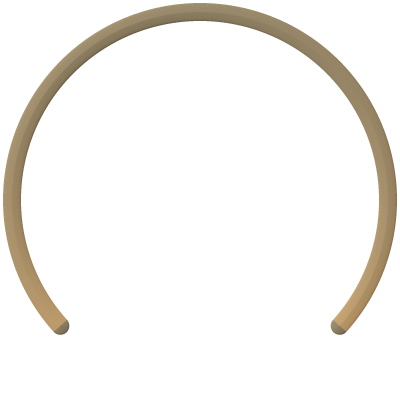
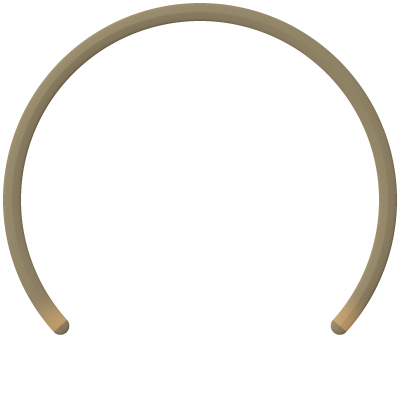
Incubator: the closed ring differs from the fill only at the ends (T-20261016-124)

Changed region(s): [[0.87, 0.54, 0.99, 0.78], [0.03, 0.57, 0.12, 0.78]]

diff --git a/art/station-masters/pods/incubator-b/make-ring.py b/art/station-masters/pods/incubator-b/make-ring.py
@@ -6,7 +6,7 @@ at (312, 88). By hand in code, no paid call. The ring of time: how close the mee
 - The form the build steps: the full arc is one picture; the build shows the part from 228 degrees clockwise to 228 + 264 f (whole degrees),
   clipping the picture to that wedge. The leading end is the wedge's straight edge, the trailing end the picture's rounded cap.
 - incubator-ring-closed (ready): the full fill with both end caps warmed where they meet the candling light under the nest (the cradle's lens
-  colour, falling off over 40 degrees from each end).
+  colour, falling to zero 12 degrees from each end; T-20261016-124: equal to the fill everywhere else).
 usage: python3 -I make-ring.py OUT_DIR"""
 import sys, os, numpy as np
 from PIL import Image
@@ -39,5 +39,9 @@ def save(name, c):
     Y = lin(img[..., :3]) @ [.2126, .7152, .0722]; op = img[..., 3] > 128
     print(name, "px", int(op.sum()), "rel. lum p95 %.3f" % np.percentile(Y[op], 95))
 save("incubator-ring-fill", col)
-warm = np.exp(-np.minimum((132 - ang) % 360, (ang - 228) % 360) / 40.0)       # by the degrees from the nearer end
+# T-20261016-124: the warmth is held to the ends, exactly zero past 12 degrees from the nearer end (it was an exponential that never
+# reached zero, so the closed picture differed from the fill all round the ring). Everywhere else the closed ring is the fill, pixel for pixel,
+# so the face's ready redraw is only the gap where the ends meet the light.
+de = np.minimum((132 - ang) % 360, (ang - 228) % 360)                         # the degrees from the nearer end (0 in the gap and the caps)
+wk = np.clip(1 - de / 12.0, 0, 1); warm = wk * wk * (3 - 2 * wk)
 save("incubator-ring-closed", col + lin([214, 150, 62])[None, None] * 0.35 * warm[..., None])

diff --git a/art/station-masters/pods/incubator-b/README.md b/art/station-masters/pods/incubator-b/README.md
@@ -203,3 +203,14 @@ The owner: "sharpen the founder shape". The shadow in the T-62/T-68 proofs was t
 **Proofs** (`proof/`, labelled inside):
 - `incubator-b-S01-glowing-1x.png`, the growing frame;
 - `shadow-steps-S01-1x.png` and `shadow-steps-S03-1x.png`: nothing cleared, 2 chapters, 4 chapters, ready, at one light (glowing; ready at ready), so only the knowing changes.
+
+## T-20261016-124: the closed ring re-cut to differ only at the ends
+The face redraws only where `incubator-ring-closed` differs from `incubator-ring-fill` (`specs/face-arc-and-shadow.md` §1). The old closed ring's warmth fell off exponentially and never reached zero, so the two differed all round the ring: 16,471 px in a 394 × 332 box.
+
+**The change** (`make-ring.py`): the warmth now falls smoothly to exactly zero 12° from each end. Everywhere else the closed ring is the fill, pixel for pixel. The fill rebuilds byte for byte.
+
+**The difference:**
+- **Pixels:** 1,451, none by 64 or more.
+- **The box:** (30, 291, 340 × 41) in the picture, which is **(342, 379, 340 × 41) on screen**. That is 13,940 px to redraw at ready (ceiling 153,600). The two ends sit 280 px apart, so a box holding both warmed caps is 340 wide.
+
+**Proof:** `proof/ring-closed-recut-1x.png`. The ring's bottom at 1× (fill, the old closed, the re-cut), each closed one with its differing pixels in red.
